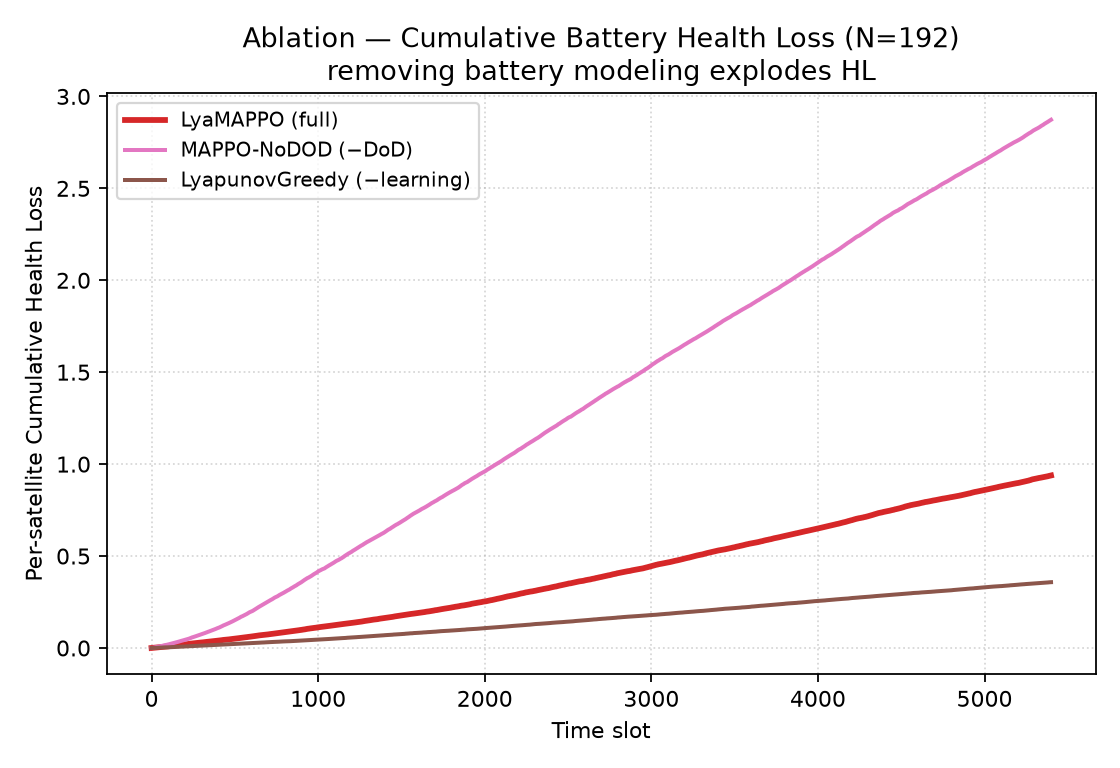
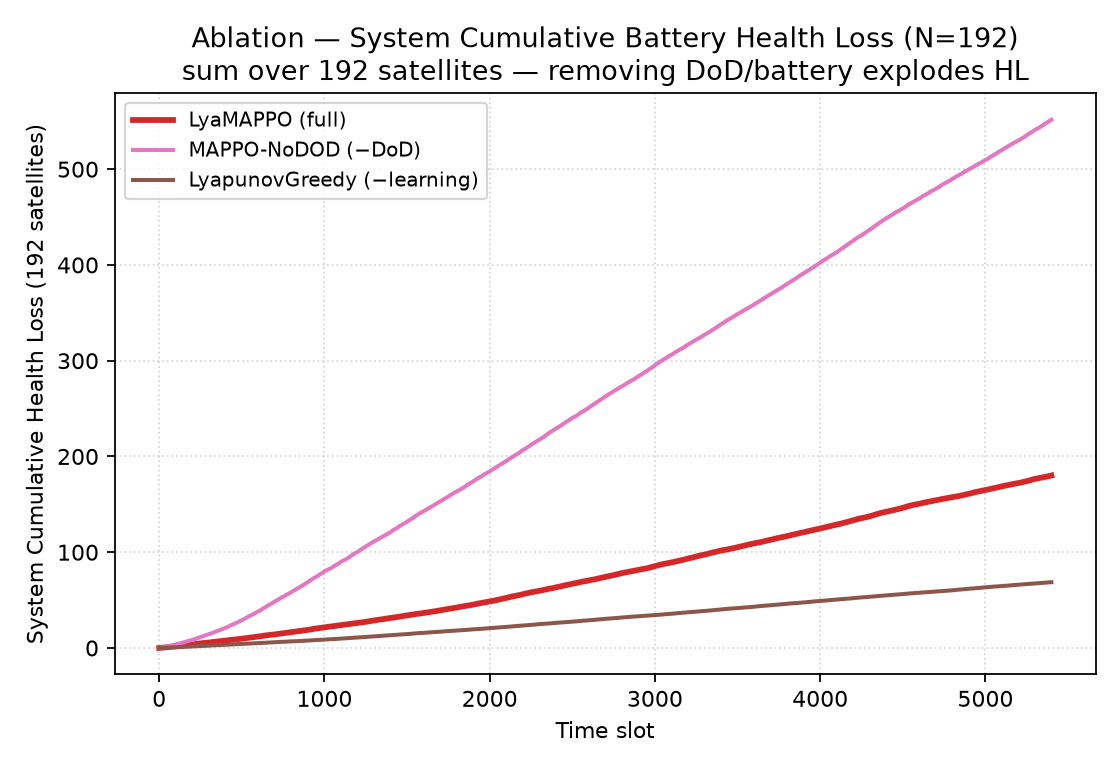
feat(figures): cumulative HL as system total (sum over 192 satellites)
Per user request, the cumulative health-loss curves (comparison + ablation) now show
the whole-system HL = per-satellite mean × 192 (the captured avg_health_loss is
per-sat; per-sat HL is N-invariant, validated at N=192, so system total = ×192).
Y-axis now in system-total units (hundreds): LyaMAPPO ~180 vs MHSPO ~527 / TD3 ~460.

Claude-Session: https://claude.ai/code/session_01VWFTWXDHtD1JkmVS7WzQ72

diff --git a/satellite_mec/plot_paper_figures.py b/satellite_mec/plot_paper_figures.py
@@ -25,16 +25,19 @@ disp  = lambda p: DISP.get(p, p)
 col = lambda p: COLOR.get(p, '#333')
 cum = lambda a: np.cumsum(np.asarray(a))
 
-# ── Fig 1: Cumulative HL curve (per-sat, intensive -> N-invariant) ⭐ ──
+# ── Fig 1: System Cumulative HL curve (sum over 192 satellites) ⭐ ──
+NSAT = 192
 fig, ax = plt.subplots(figsize=(7.5, 5))
 for p in ORDER:
-    y = cum(S[p]['hl'])
+    y = cum(S[p]['hl']) * NSAT          # 系统总和 = per-sat 平均 × 192 颗
     ax.plot(np.arange(len(y)), y, label=disp(p), color=col(p),
             lw=2.6 if p=='LyaMAPPO' else 1.5, zorder=3 if p=='LyaMAPPO' else 2)
-ax.set_xlabel('Time slot'); ax.set_ylabel('Per-satellite Cumulative Health Loss')
-ax.set_title('Per-satellite Cumulative Battery Health Loss (N=192, $\\lambda$=4)\n'
-             'LyaMAPPO stays flat-low while battery-agnostic policies climb (per-sat HL is N-invariant)')
+ax.set_xlabel('Time slot'); ax.set_ylabel('System Cumulative Health Loss (192 satellites)')
+ax.set_title('System Cumulative Battery Health Loss (N=192, $\\lambda$=4)\n'
+             'sum over 192 satellites — LyaMAPPO stays flat-low while others climb')
 ax.legend(fontsize=8, ncol=2); ax.grid(True, ls=':', alpha=0.5)
+ax.text(0.5, -0.16, 'Per-satellite HL is N-invariant (validated at N=192); system total = per-sat × 192.',
+        transform=ax.transAxes, ha='center', fontsize=7, color='gray', style='italic')
 plt.tight_layout(); plt.savefig(os.path.join(OUT,'cumulative_hl.png'), dpi=160); plt.close()
 
 # ── Fig 2 & 3: system total energy / delay bars (N=192) ──

diff --git a/satellite_mec/plot_abl_figures.py b/satellite_mec/plot_abl_figures.py
@@ -32,14 +32,15 @@ ax.set_title('Ablation — User Satisfaction (N=192)\nremoving learning collapse
 ax.grid(True, axis='y', ls=':', alpha=0.5)
 plt.tight_layout(); plt.savefig(os.path.join(OUT,'ablation_satisfaction.png'), dpi=160); plt.close()
 
-# ── Ablation 2: cumulative HL (−battery explodes it) ──
+# ── Ablation 2: system cumulative HL (sum over 192 sats; −DoD explodes it) ──
 fig, ax = plt.subplots(figsize=(7, 4.8))
 for p in ABL:
-    y = cum(S[p]['hl'])
+    y = cum(S[p]['hl']) * 192          # 系统总和 = per-sat 平均 × 192 颗
     ax.plot(np.arange(len(y)), y, label=LABEL[p].replace('\n',' '), color=col(p),
             lw=2.6 if p=='LyaMAPPO' else 1.8)
-ax.set_xlabel('Time slot'); ax.set_ylabel('Per-satellite Cumulative Health Loss')
-ax.set_title('Ablation — Cumulative Battery Health Loss (N=192)\nremoving battery modeling explodes HL')
+ax.set_xlabel('Time slot'); ax.set_ylabel('System Cumulative Health Loss (192 satellites)')
+ax.set_title('Ablation — System Cumulative Battery Health Loss (N=192)\n'
+             'sum over 192 satellites — removing DoD/battery explodes HL')
 ax.legend(fontsize=9); ax.grid(True, ls=':', alpha=0.5)
 plt.tight_layout(); plt.savefig(os.path.join(OUT,'ablation_cumulative_hl.png'), dpi=160); plt.close()
 
